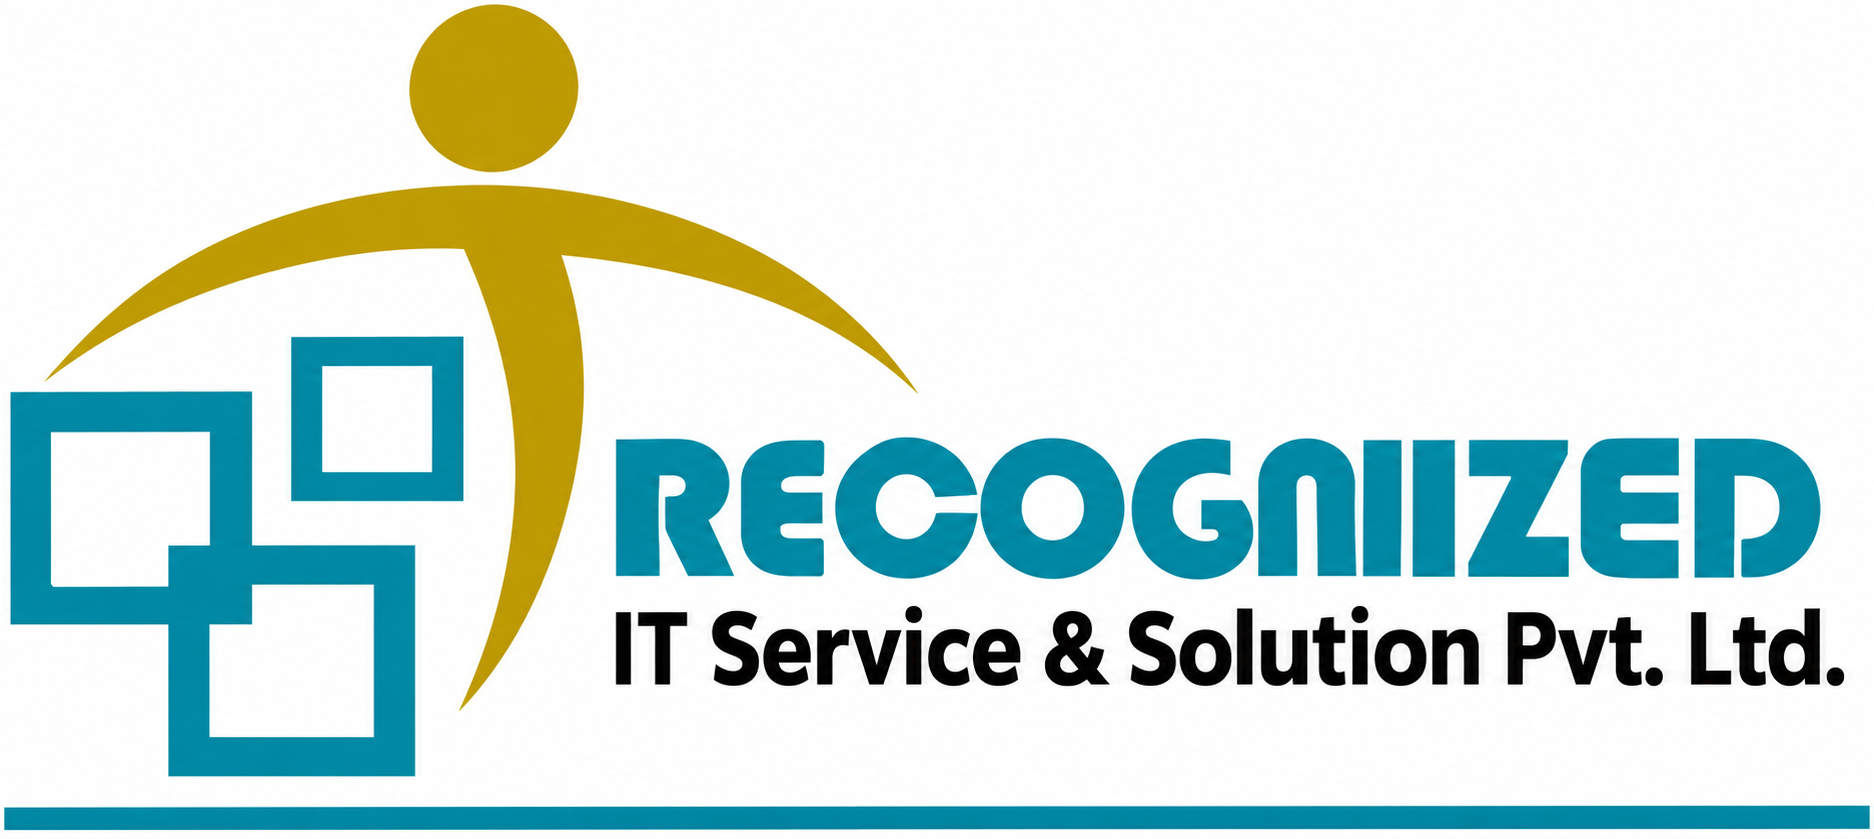
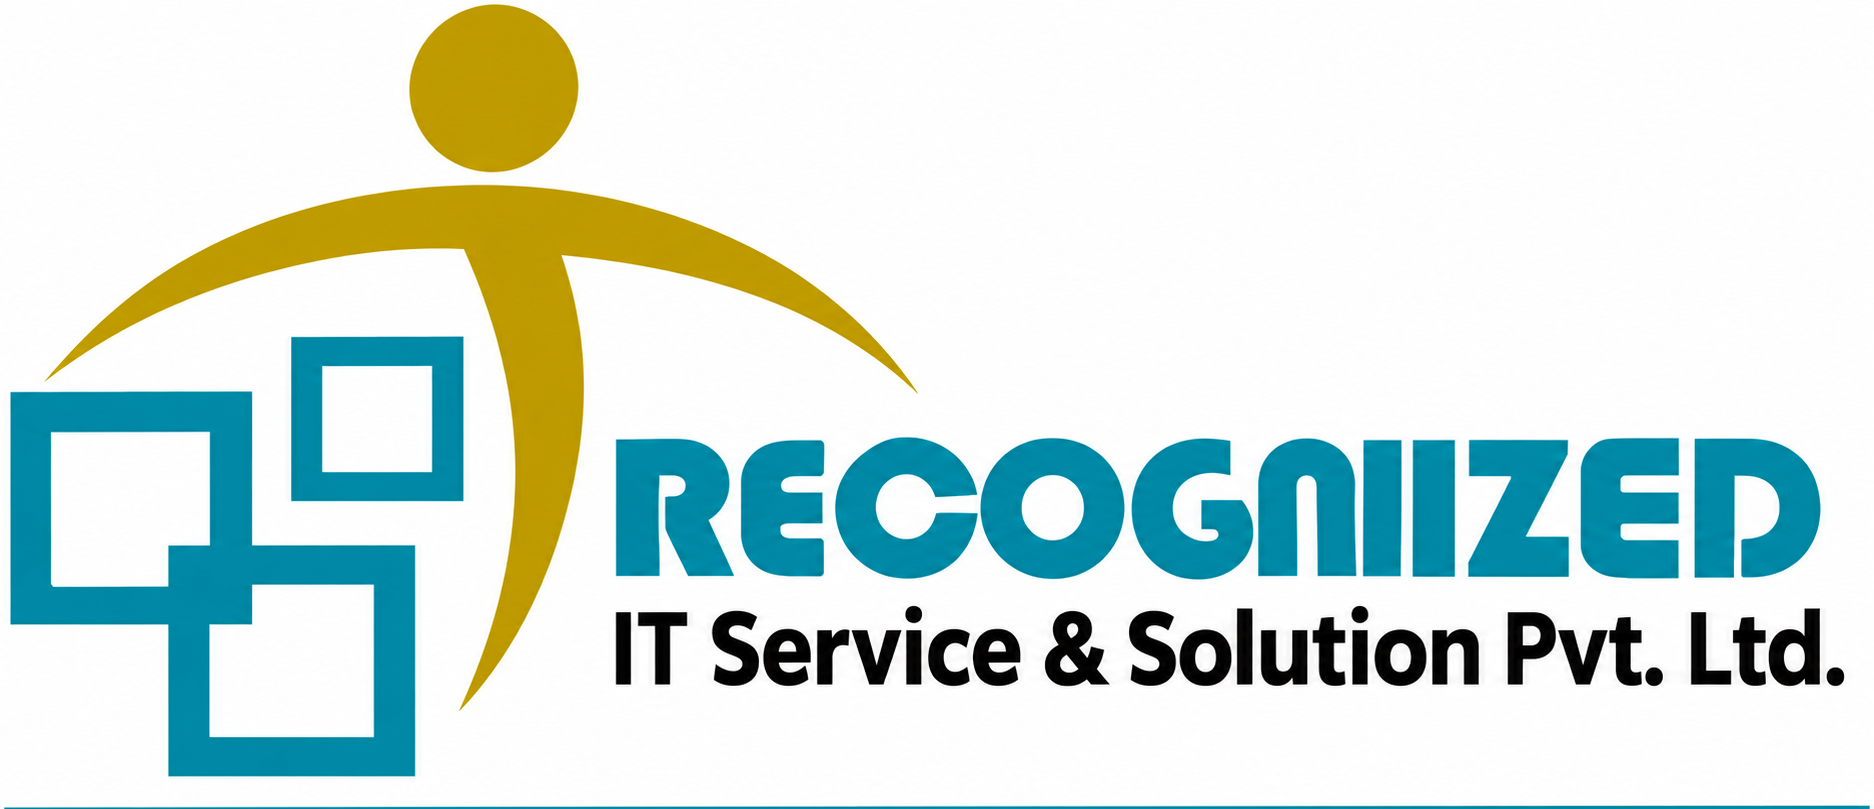
Navbar Enhanced

diff --git a/index.html b/index.html
@@ -27,7 +27,7 @@
 
       <!-- Logo -->
       <a href="index.html" class="navbar__logo" aria-label="Recognized IT Service & Solution — Home">
-        <img src="images/company_white2.png" alt="Recognized IT Service &amp; Solution" class="navbar__logo-img">
+        <img src="images/company_white.png" alt="Recognized IT Service &amp; Solution" class="navbar__logo-img">
       </a>
 
       <!-- Desktop Navigation Links -->

diff --git a/css/global.css b/css/global.css
@@ -515,7 +515,7 @@ textarea.form-control {
 .navbar__links {
   display: flex;
   align-items: center;
-  gap: 0.15rem;
+  gap: 0.55rem;
 }
 
 .navbar__link {
